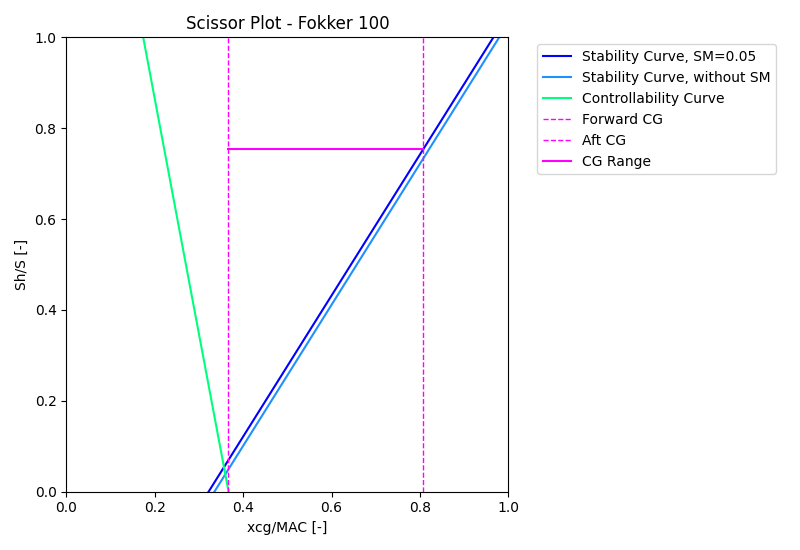
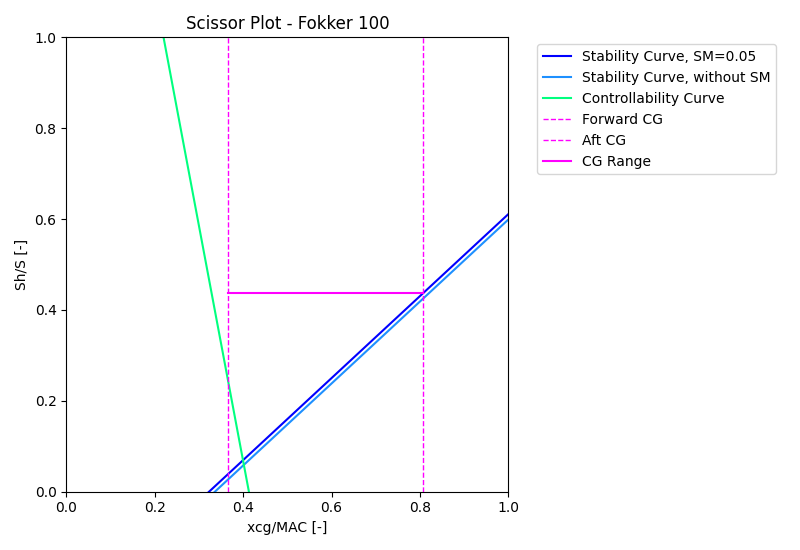
Init

diff --git a/solver.py b/solver.py
@@ -49,7 +49,7 @@ class ScissorPlotSolver:
         sweep_quarter: quarter root chord sweep [rad]
         '''
         self.S                             = 93.5
-        self.S_net                         = 0.9 * self.S # don't know how to compute this yet
+        self.S_net                         = 0.50 * self.S # don't know how to compute this yet
         self.b                             = 28.08 
         self.MAC                           = 3.8
         self.A                             = 8.43 
@@ -84,9 +84,9 @@ class ScissorPlotSolver:
         eta: airfoil efficiency assumption, constant obtained from slides
         '''
         self.M_landing                     = 0.2
-        self.M_landing_tail                 = self.M_landing * 0.9  # randomized
+        self.M_landing_tail                = self.M_landing * 0.55  # randomized
         self.M_cruise                      = 0.77
-        self.M_cruise_tail                 = self.M_cruise * 0.9  # randomized
+        self.M_cruise_tail                 = self.M_cruise * 0.65  # randomized
         self.eta                           = 0.95
         
     def get_screen_resolution(self):
@@ -107,10 +107,20 @@ class ScissorPlotSolver:
         cv2.waitKey(0)
 
     def initialize_sweep(self):
+        '''
+        === PRIMARY WING ===
+        '''
         self.c_r = (2 * self.S) / (self.b * (1 + self.taper_ratio))
         self.c_t = self.c_r * self.taper_ratio
         self.sweep_LE = np.arctan(np.tan(self.sweep_quarter) + (self.c_r /  (2 * self.b)) * (1 - self.taper_ratio))
         self.sweep_half = np.arctan((self.b / 2 * np.tan(self.sweep_LE) + ((self.c_t - self.c_r) / 2)) / (self.b / 2))
+        '''
+        === HORIZONTAL STABILIZER ===
+        '''
+        self.c_r_h = (2 * self.S_h) / (self.b_h * (1 + self.taper_ratio_h))
+        self.c_t_h = self.c_r_h * self.taper_ratio_h
+        self.sweep_LE_h = np.arctan(np.tan(self.sweep_quarter_h) + (self.c_r_h /  (2 * self.b_h)) * (1 - self.taper_ratio_h))
+        self.sweep_half_h = np.arctan((self.b_h / 2 * np.tan(self.sweep_LE_h) + ((self.c_t_h - self.c_r_h) / 2)) / (self.b_h / 2))
 
     def velocity_ratio(self, key: str):
         if key == 'fuselage-mounted':
@@ -150,12 +160,20 @@ class ScissorPlotSolver:
                     return 18.3
             else:
                 print("Use one of the valid keys: '4', '5', '63', '64', '65', '66'.\n")
-        
-    def display_info_x_ac(self, M):
-        print("\n=== INFORMATION DISPLAY FOR TORENBEEK PLOTS ===\n")
+
+    def CL_alpha_DATCOM(self, A, M, sweep_half):
+        beta = np.sqrt(1 - M**2)
+        CL_alpha = (2 * np.pi * A) / (2 + np.sqrt(4 + ((A * beta) / self.eta)**2 * (1 + (np.tan(sweep_half)**2)/(beta**2))))
+        return CL_alpha
+    
+    def solve_stability(self):
+        '''
+        === TORENBEEK PLOTS FOR X_AC CALCULATIONS ====
+        '''
+        print("\n=== INFORMATION DISPLAY FOR TORENBEEK PLOTS, CRUISE & STABILITY ===\n")
         print(f"Displaying information required for reading of 'Fig. E-10. Aerodynamic center of lifting surfaces at subsonic speeds (Ref. E-31). (Source: Torenbeek)'...")
         print(f"Use printed parameters to read corresponding curves and determined the aerodynamic center of the primary wing...")
-        beta = np.sqrt(1 - M**2)
+        beta = np.sqrt(1 - self.M_cruise**2)
         lambda_beta = np.arctan(np.tan(self.sweep_LE) / beta) * 180 / np.pi
 
         table_data = [
@@ -172,54 +190,47 @@ class ScissorPlotSolver:
 
         while True:
             try:
-                self.x_ac_w = float(input("\nInput x_ac/MAC value read from the Torenbeek plot: ")) * self.MAC
+                self.x_ac_w_cruise = float(input("\nInput x_ac/MAC value read from the Torenbeek plot: ")) * self.MAC
                 break
             except ValueError:
                 print("ValueError: Enter a valid floating point number.\n")
                 continue
-
-    def CL_alpha_DATCOM(self, A, M):
-        beta = np.sqrt(1 - M**2)
-        CL_alpha = (2 * np.pi * A) / (2 + np.sqrt(4 + ((A * beta) / self.eta)**2 * (1 + (np.tan(self.sweep_half)**2)/(beta**2))))
-        return CL_alpha
-    
-    def solve_stability(self):
         '''
         === Calling DATCOM Method ===
         > Solve for CL_alpha of aircraft less tail configuration, 
         and tail configuration only.
         '''
-        self.CL_alpha_Ah = self.CL_alpha_w * (1 + 2.15 * self.b_f / self.b) * self.S_net / self.S + np.pi / 2 * self.b_f**2 / self.S
+        self.CL_alpha_Ah_cruise = self.CL_alpha_w_cruise * (1 + 2.15 * self.b_f / self.b) * self.S_net / self.S + np.pi / 2 * self.b_f**2 / self.S
         CL_alpha_Ah_check = (2 * np.pi * self.A) / (self.A + 2)
         print(f"\nCHECKING VALIDITY OF CL-ALPHA-A-H:")
-        print(f"Calculated: {self.CL_alpha_Ah}")
+        print(f"Calculated: {self.CL_alpha_Ah_cruise}")
         print(f"Expected Order: {CL_alpha_Ah_check}\n")
         error_margin = 0.10
-        if CL_alpha_Ah_check * (1.00 - error_margin) < self.CL_alpha_Ah < CL_alpha_Ah_check * (1.00 + error_margin):
+        if CL_alpha_Ah_check * (1.00 - error_margin) < self.CL_alpha_Ah_cruise < CL_alpha_Ah_check * (1.00 + error_margin):
             print("*** SANITY CHECK PASSED ***\n")
         else: 
             print("*** SANITY CHECK FAILED ***\n")
         '''
         === Aerodynamic Centers Calculation ===
         '''
-        x_ac_f1 = - (1.8 / self.CL_alpha_Ah) * ((self.b_f * self.h_f * self.l_fn) / (self.S * self.MAC))
+        x_ac_f1 = - (1.8 / self.CL_alpha_Ah_cruise) * ((self.b_f * self.h_f * self.l_fn) / (self.S * self.MAC))
         c_g = self.S / self.b # mean geometric chord
         x_ac_f2 = (0.273 / (1 + self.taper_ratio)) * ((self.b_f * c_g * (self.b - self.b_f)) / (self.MAC**2 * (self.b + 2.15 * self.b_f))) * np.tan(self.sweep_quarter)
 
-        x_ac = self.x_ac_w + x_ac_f1 + x_ac_f2
+        x_ac = self.x_ac_w_cruise + x_ac_f1 + x_ac_f2
         
         '''
         === Downwash Gradient Calculations ===
         > Geometry derived by hand by Alper & Thibault,
         requires accompanying diagram.
         '''
-        i_w = 3 * np.pi / 180 # [rad]
-        h_h = 1.5 # [m]
+        i_w = 2 * np.pi / 180 # [rad]
+        h_h = 5.0 #3.491261 # [m]
         x_LE_root = self.l_fn
         x_TE_root = x_LE_root + self.c_r
-        R = np.sqrt((self.l_h - (self.c_r - self.x_ac_w - x_LE_root))**2 + (h_h + (self.c_r - self.x_ac_w - x_LE_root) * np.sin(i_w))**2)
+        R = np.sqrt((self.l_h - (self.c_r - self.x_ac_w_cruise - x_LE_root))**2 + (h_h + (self.c_r - self.x_ac_w_cruise - x_LE_root) * np.sin(i_w))**2)
         gamma = np.arcsin(((2 * x_LE_root - x_TE_root + x_ac) * np.sin(i_w)) / self.c_r)
-        beta = np.arccos(((self.l_h + (x_TE_root - 2 * x_LE_root - self.x_ac_w) * np.sin(i_w))) / R)
+        beta = np.arccos(((self.l_h + (x_TE_root - 2 * x_LE_root - self.x_ac_w_cruise) * np.sin(i_w))) / R)
         Psi = np.pi - gamma + beta
         m_tv = 2 * R * np.sin(Psi) / self.b
         r = 2 * self.l_h / self.b
@@ -227,8 +238,10 @@ class ScissorPlotSolver:
         K_epsilon_Lambda = (0.1124 + 0.1265 * self.sweep_LE + 0.1766 * self.sweep_LE**2) / (r**2) + 0.1024 / r + 2
         K_epsilon_Lambda0 = 0.1124 / r**2 + 0.1024 / r + 2
 
-        self.downwash_gradient = (K_epsilon_Lambda / K_epsilon_Lambda0) * ((r / (r**2 + m_tv**2)) * (0.4876 / np.sqrt(r**2 + 0.6319 + m_tv**2)) + (1 + (r**2 / (r**2 + 0.7915 + 5.0734 * m_tv**2))**0.3113)*(1 - np.sqrt(m_tv**2 / (1 + m_tv**2)))) * (self.CL_alpha_w / (np.pi * self.A))
+        #self.downwash_gradient = (K_epsilon_Lambda / K_epsilon_Lambda0) * ((r / (r**2 + m_tv**2)) * (0.4876 / np.sqrt(r**2 + 0.6319 + m_tv**2)) + (1 + (r**2 / (r**2 + 0.7915 + 5.0734 * m_tv**2))**0.3113)*(1 - np.sqrt(m_tv**2 / (1 + m_tv**2)))) * (self.CL_alpha_w_cruise / (np.pi * self.A))
+        self.downwash_gradient = 0
         downwash_gradient_check = 4/(self.A + 2)
+        #self.downwash_gradient = downwash_gradient_check
 
         print(f"\nCHECKING VALIDITY OF DOWNWASH GRADIENT:")
         print(f"Calculated: {self.downwash_gradient}")
@@ -242,13 +255,41 @@ class ScissorPlotSolver:
         === Solving Coefficients of Linear Model ===
         '''
         self.SM = 0.05 # standard
-        self.m_s = ((self.CL_alpha_h / self.CL_alpha_Ah) * (1 - self.downwash_gradient) * (self.l_h / self.MAC) * (self.V_ratio) **2)**(-1)
-        self.q_s_SM = - (self.x_ac_w - self.SM) / ((self.CL_alpha_h / self.CL_alpha_Ah) * (1 - self.downwash_gradient) * (self.l_h / self.MAC) * (self.V_ratio) **2) 
-        self.q_s = - (self.x_ac_w) / ((self.CL_alpha_h / self.CL_alpha_Ah) * (1 - self.downwash_gradient) * (self.l_h / self.MAC) * (self.V_ratio) **2)
-        print(f'This is the difference {self.x_ac_w - self.SM}')
-        print(f'This is x_ac {self.x_ac_w}')
+        self.m_s = ((self.CL_alpha_Ah_cruise / self.CL_alpha_Ah_cruise) * (1 - self.downwash_gradient) * (self.l_h / self.MAC) * (self.V_ratio) **2)**(-1)
+        self.q_s_SM = - (self.x_ac_w_cruise - self.SM) / ((self.CL_alpha_h_cruise / self.CL_alpha_Ah_cruise) * (1 - self.downwash_gradient) * (self.l_h / self.MAC) * (self.V_ratio) **2) 
+        self.q_s = - (self.x_ac_w_cruise) / ((self.CL_alpha_h_cruise / self.CL_alpha_Ah_cruise) * (1 - self.downwash_gradient) * (self.l_h / self.MAC) * (self.V_ratio) **2)
+        print(f'This is the difference {self.x_ac_w_cruise - self.SM}')
+        print(f'This is x_ac {self.x_ac_w_cruise}')
     
     def solve_controllability(self):
+        '''
+        === TORENBEEK PLOTS FOR X_AC CALCULATIONS ====
+        '''
+        print("\n=== INFORMATION DISPLAY FOR TORENBEEK PLOTS, LANDING & CONTROLLABILITY ===\n")
+        print(f"Displaying information required for reading of 'Fig. E-10. Aerodynamic center of lifting surfaces at subsonic speeds (Ref. E-31). (Source: Torenbeek)'...")
+        print(f"Use printed parameters to read corresponding curves and determined the aerodynamic center of the primary wing...")
+        beta = np.sqrt(1 - self.M_landing**2)
+        lambda_beta = np.arctan(np.tan(self.sweep_LE) / beta) * 180 / np.pi
+
+        table_data = [
+            ["βA", beta * self.A],
+            ["λ", self.taper_ratio],
+            ["Λ_β [deg]", lambda_beta],
+        ]
+        print(tabulate(table_data, headers=["Coefficient", "Value"], tablefmt="grid"))
+
+        if self.show:
+            filepath = "images\Torenbeek_Wing_Fuselage_AC.png"
+            filename = "Torenbeek Wing Fuselage Aerodynamic Center Relation"
+            self.show_images(filepath=filepath, filename=filename)
+
+        while True:
+            try:
+                self.x_ac_w_landing = float(input("\nInput x_ac/MAC value read from the Torenbeek plot: ")) * self.MAC
+                break
+            except ValueError:
+                print("ValueError: Enter a valid floating point number.\n")
+                continue
         '''
         === Moment Coefficient of Aerodynamic Center ===
         Contributions from:
@@ -316,7 +357,7 @@ class ScissorPlotSolver:
         flap_span             = 0.58 * self.b #TODO: i made it up
         # Thibault Edit: Function of MAC instead
         c_prime               = chord_extension_ratio * self.MAC #TODO: root chord, MAC chord?
-        chord_flap            = 0.3 * self.MAC #TODO: i made it up
+        chord_flap            = 0.30 * self.MAC #TODO: i made it up
         # c_prime               = chord_extension_ratio * self.c_r #TODO: root chord, MAC chord?
         # chord_flap            = 0.3 * self.c_r #TODO: i made it up
 
@@ -473,10 +514,10 @@ class ScissorPlotSolver:
                 print("ValueError: Enter a valid floating point number.\n")
                 continue
 
-        self.x_ac_w = 0.27 * self.MAC
-        self.CL_alpha_w = self.CL_alpha_DATCOM(A=self.A, M=self.M_landing)
-        self.CL_alpha_h = self.CL_alpha_DATCOM(A=self.A_h, M=self.M_landing_tail)
-        self.CL_alpha_Ah = self.CL_alpha_w * (1 + 2.15 * self.b_f / self.b) * self.S_net / self.S + np.pi / 2 * self.b_f**2 / self.S
+        #self.x_ac_w = 0.27 * self.MAC
+        #self.CL_alpha_w = self.CL_alpha_DATCOM(A=self.A, M=self.M_landing)
+        #self.CL_alpha_h = self.CL_alpha_DATCOM(A=self.A_h, M=self.M_landing_tail)
+        self.CL_alpha_Ah_landing = self.CL_alpha_w_landing * (1 + 2.15 * self.b_f / self.b) * self.S_net / self.S + np.pi / 2 * self.b_f**2 / self.S
 
         CL_max_clean = 2.55 
         delta_Cl_max = (self.ratio_CL_Cl_max) * CL_max_clean + delta_CL_max
@@ -488,7 +529,7 @@ class ScissorPlotSolver:
         > (3) Fuselage <
         '''
         CL_0 = 1.6
-        fuselage_contribution = -1.8 * (1 - 2.5 * self.b_f / self.l_f) * ((np.pi * self.b_f * self.h_f * self.l_f)/(4 * self.S * self.MAC)) * (CL_0 / self.CL_alpha_Ah)
+        fuselage_contribution = -1.8 * (1 - 2.5 * self.b_f / self.l_f) * ((np.pi * self.b_f * self.h_f * self.l_f)/(4 * self.S * self.MAC)) * (CL_0 / self.CL_alpha_Ah_landing)
         
         '''
         > (4) Nacelles <
@@ -526,7 +567,7 @@ class ScissorPlotSolver:
                 continue
 
         self.m_c = ((self.CL_h / self.CL_Ah) * (self.l_h / self.MAC) * self.V_ratio**2)**(-1)
-        self.q_c = (Cm_ac / self.CL_Ah - self.x_ac_w) / ((self.CL_h / self.CL_Ah) * (self.l_h / self.MAC) * self.V_ratio**2)
+        self.q_c = (Cm_ac / self.CL_Ah - self.x_ac_w_landing) / ((self.CL_h / self.CL_Ah) * (self.l_h / self.MAC) * self.V_ratio**2)
         
         print("\n=== VERIFICATION KEY VALUES ===\n")
         table_data = [

diff --git a/main.py b/main.py
@@ -37,9 +37,10 @@ if __name__ == '__main__':
     solver = ScissorPlotSolver(name_aircraft="Fokker 100", flap_type="Double-Slotted Krueger Flaps", airfoil_series="NACA 43012A", show=False)
     solver.initialize_sweep()
     solver.velocity_ratio('T-tail and canard')
-    solver.display_info_x_ac(M=solver.M_cruise)
-    solver.CL_alpha_w = solver.CL_alpha_DATCOM(A=solver.A, M=solver.M_cruise)
-    solver.CL_alpha_h = solver.CL_alpha_DATCOM(A=solver.A_h, M=solver.M_cruise_tail)
+    solver.CL_alpha_w_cruise = solver.CL_alpha_DATCOM(A=solver.A, M=solver.M_cruise, sweep_half=solver.sweep_half)
+    solver.CL_alpha_h_cruise = solver.CL_alpha_DATCOM(A=solver.A_h, M=solver.M_cruise_tail, sweep_half=solver.sweep_half_h)
+    solver.CL_alpha_w_landing = solver.CL_alpha_DATCOM(A=solver.A, M=solver.M_landing, sweep_half=solver.sweep_half)
+    solver.CL_alpha_h_landing = solver.CL_alpha_DATCOM(A=solver.A_h, M=solver.M_landing_tail, sweep_half=solver.sweep_half_h)
     solver.solve_stability()
     solver.CL_h('fixed')
     solver.solve_controllability()
